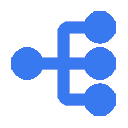
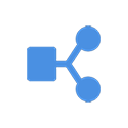
Quick view lua script file by node panel #503

diff --git a/editor/echo/Editor/UI/NodeTreePanel/NodeTreePanel.cpp b/editor/echo/Editor/UI/NodeTreePanel/NodeTreePanel.cpp
@@ -160,7 +160,7 @@ namespace Studio
 			nodeItem->setIcon(NodeDisableIndex, QIcon(":/icon/Icon/eye_close.png"));
 
 		if (!node->getScript().isEmpty())
-			nodeItem->setIcon(NodeScriptIndex, QIcon(":/icon/Icon/file/lua.png"));
+			nodeItem->setIcon(NodeScriptIndex, QIcon(":/icon/Icon/node_lua_script.png"));
 
 		if (!node->getPath().empty())
 			nodeItem->setIcon(NodeLinkIndex, QIcon(":/icon/node/link_child_scene.png"));
